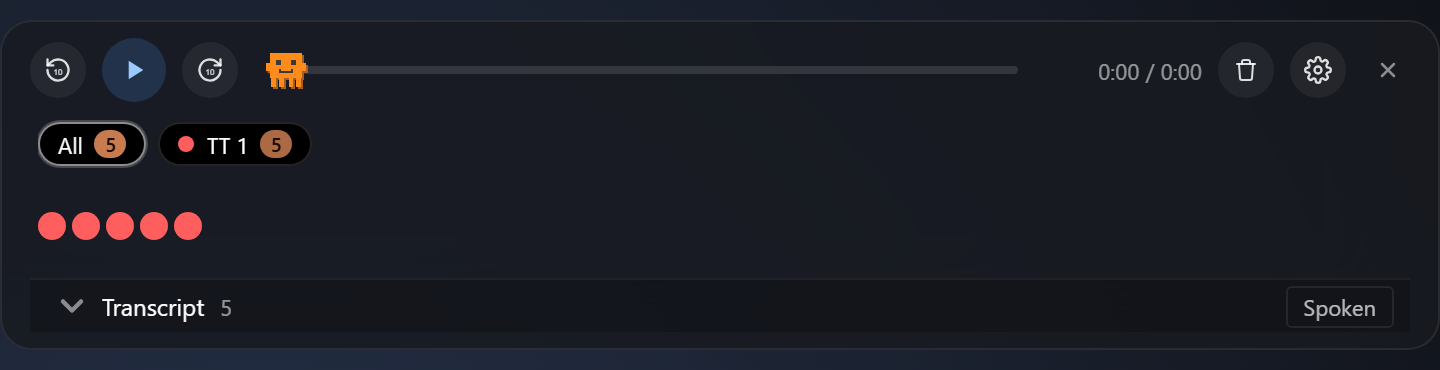
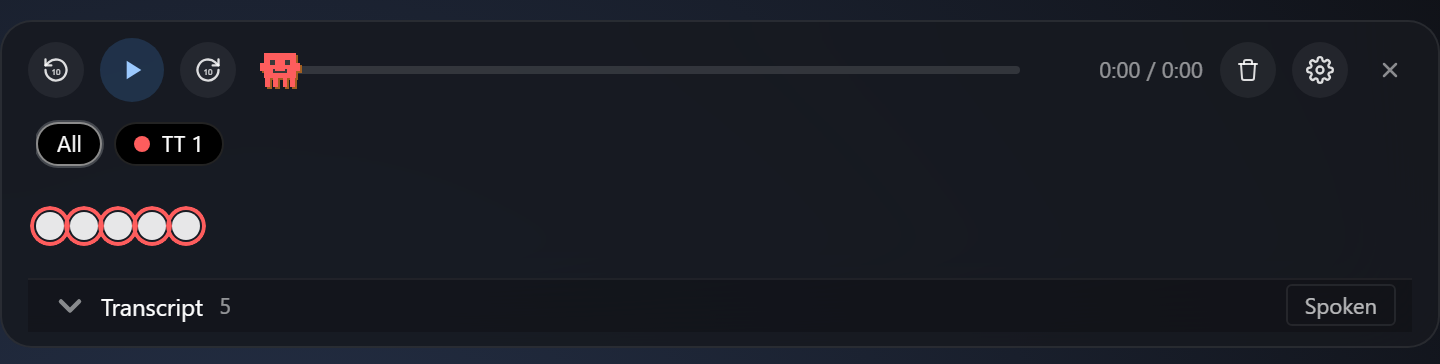
docs: add current toolbar state screenshots

diff --git a/docs/index.html b/docs/index.html
@@ -243,12 +243,14 @@ section { padding: 80px 24px; }
 .shot-pair {
   display: flex;
   gap: 12px;
+  flex-wrap: wrap;
   align-items: center;
   justify-content: center;
   min-height: 160px;
 }
 .shot-pair img {
-  width: min(46%, 320px);
+  width: min(30%, 220px);
+  min-width: 150px;
 }
 .shot-card h3 {
   margin: 14px 4px 6px;
@@ -588,12 +590,18 @@ footer a { color: var(--text-dim); margin: 0 12px; }
     </div>
     <div class="shot-grid">
       <article class="shot-card wide">
-        <img src="screenshots/toolbar-settings-panel.png" alt="Terminal Talk settings panel showing Playback, Sessions, Create, OpenAI, Shortcuts, and About tabs">
-        <h3>Tabbed settings instead of one long scrollbar</h3>
-        <p>Playback, Sessions, Create, OpenAI, Shortcuts, and About each get their own page. The top toolbar strip stays focused on active sessions and sessions with clips waiting.</p>
+        <img src="screenshots/toolbar-resting-with-tabs.png" alt="Terminal Talk toolbar resting with active session tabs, clip dots, and transcript header">
+        <h3>Resting toolbar with active conversations</h3>
+        <p>The top strip shows active sessions and sessions with clips waiting, while the dot row keeps each conversation grouped by palette identity.</p>
+      </article>
+      <article class="shot-card wide">
+        <img src="screenshots/toolbar-transcript-expanded.png" alt="Terminal Talk toolbar with transcript panel expanded, spoken rows, and copy buttons">
+        <h3>Transcript expanded</h3>
+        <p>Recent clips stay readable next to playback. Copy a spoken row, flip to Original when available, and keep the transcript filtered to the selected session tab.</p>
       </article>
       <article class="shot-card">
         <div class="shot-pair">
+          <img src="screenshots/toolbar-collapsed-resting.png" alt="Collapsed resting letterbox strip">
           <img src="screenshots/toolbar-collapsed-signal-horizontal.png" alt="Collapsed waveform letterbox using a horizontal split session palette">
           <img src="screenshots/toolbar-collapsed-signal-vertical.png" alt="Collapsed waveform letterbox using a vertical split session palette">
         </div>
@@ -609,6 +617,11 @@ footer a { color: var(--text-dim); margin: 0 12px; }
         <img src="screenshots/toolbar-create-session-tab.png" alt="Create tab with assistant picker, permissions, project folder, label, colour, save default, and create buttons">
         <h3>Create sessions from the toolbar</h3>
         <p>Start Codex, Claude Code, or Claude Desktop Code with the project folder, label, colour, and permissions mode already selected before the assistant begins talking.</p>
+      </article>
+      <article class="shot-card wide">
+        <img src="screenshots/toolbar-settings-panel.png" alt="Terminal Talk settings panel showing Playback, Sessions, Create, OpenAI, Shortcuts, and About tabs">
+        <h3>Tabbed settings instead of one long scrollbar</h3>
+        <p>Playback, Sessions, Create, OpenAI, Shortcuts, and About each get their own page, so the controls are separated by job instead of buried in one long panel.</p>
       </article>
     </div>
   </div>

diff --git a/docs/ui-kit/mock-ipc.js b/docs/ui-kit/mock-ipc.js
@@ -173,6 +173,24 @@
     }
   }
 
+  function sessionShortFromPath(audioPath) {
+    const fname = String(audioPath || '').split(/[\\/]/).pop() || '';
+    const clip = fname.match(/-clip-([a-f0-9]{8})-\d+\.(?:mp3|wav)$/i);
+    if (clip) return clip[1].toLowerCase();
+    const normal = fname.match(/-([a-f0-9]{8})\.(?:mp3|wav)$/i);
+    return normal ? normal[1].toLowerCase() : '';
+  }
+
+  function sidecarForClip(audioPath) {
+    const short = sessionShortFromPath(audioPath);
+    const entry = short && sessions[short] ? sessions[short] : null;
+    const label = (entry && entry.label) || (short ? `Session ${short}` : 'Highlight');
+    return {
+      spoken: `${label} finished a turn and Terminal Talk kept the clip in the transcript with the spoken wording ready to copy.`,
+      original: `### ${label}\n\nThis is the original assistant text before speech cleanup. It can include **markdown**, inline code, and links while the Spoken view stays clean for audio.`,
+    };
+  }
+
   // ═══════════════════════════════════════════════════════════════════════
   // Seeds — each returns { queueFiles, sessions, staleShorts?, panelOpen? }
   // ═══════════════════════════════════════════════════════════════════════
@@ -380,6 +398,7 @@
     getQueue:          () => Promise.resolve({ files: sortedFiles(), assignments: { ...sessions } }),
     getConfig:         () => Promise.resolve({ ...config }),
     getStaleSessions:  () => Promise.resolve(staleShorts.slice()),
+    readClipSidecar:   (audioPath) => Promise.resolve(sidecarForClip(audioPath)),
 
     // --- mutations ----------------------------------------------------
     updateConfig: (partial) => {

diff --git a/README.md b/README.md
@@ -35,6 +35,18 @@ Hands-free voice output for terminal coding agents on Windows. Free, MIT license
 | 🔐 **Encrypted API keys** — OpenAI premium via safeStorage (DPAPI / Keychain) | ⏱ **Claude end-of-reply verb** — scrapes the terminal footer and speaks _"Brewed for 8m 49s"_ |
 | 💬 **Per-session voice + heartbeat + speech-includes** — 45 Edge voices + 6 OpenAI, tri-state session controls | 📡 **Collapsed waveform strip** — 1-inch letterbox pulses with the speaking session's solid/split palette |
 
+### Current toolbar states
+
+These are fresh captures from the live Electron toolbar mirror, not hand-built mockups.
+
+| Resting toolbar with active conversations | Transcript panel expanded |
+|---|---|
+| <img src="docs/screenshots/toolbar-resting-with-tabs.png" alt="Terminal Talk toolbar resting with top session tabs, colour badges, clip dots, and transcript header" width="520"> | <img src="docs/screenshots/toolbar-transcript-expanded.png" alt="Terminal Talk toolbar with transcript panel expanded, spoken text rows, and copy buttons" width="520"> |
+
+| Collapsed at rest | Collapsed while a split-palette session is speaking |
+|---|---|
+| <img src="docs/screenshots/toolbar-collapsed-resting.png" alt="Terminal Talk collapsed resting letterbox strip" width="260"> | <img src="docs/screenshots/toolbar-collapsed-signal-horizontal.png" alt="Terminal Talk collapsed waveform strip pulsing with a split session palette" width="260"> |
+
 ---
 
 ## Install (Windows)
@@ -92,10 +104,10 @@ Re-running `install.ps1` is safe — it updates in place and preserves your `con
 
 Current screenshots are rendered from the same Electron DOM/CSS that ships in the app via the UI kit mirror, so they track the real toolbar rather than hand-built mockups.
 
-### 01 · Idle
+### 01 · Resting with active conversations
 
 <p align="center">
-  <img src="docs/screenshots/toolbar-idle.png" alt="Idle toolbar: empty two-row letterbox with controls on top and an empty dot strip below" width="900">
+  <img src="docs/screenshots/toolbar-resting-with-tabs.png" alt="Terminal Talk toolbar resting with top session tabs, colour badges, clip dots, and transcript header" width="900">
 </p>
 
 The baseline expanded toolbar. It is frameless, always-on-top, draggable, and uses the top tab strip only for active sessions or sessions that still have clips in the queue. Registry-only sessions stay out of this top strip and live in Settings › Sessions, so the day-to-day playback surface does not get cluttered.
@@ -106,7 +118,7 @@ The baseline expanded toolbar. It is frameless, always-on-top, draggable, and us
   <img src="docs/screenshots/toolbar-three-sessions.png" alt="Dot strip clusters by session: 3 red dots (Terminal A, first one playing), gap, 3 yellow dots (Terminal B), gap, 2 green dots (Terminal C)" width="900">
 </p>
 
-Three terminals queued in arrival order: **3 red** from Terminal A (first one playing, 2 queued behind), **3 yellow** from Terminal B, **2 green** from Terminal C. The 12 px gap between runs marks a change of speaker so the timeline reads as **A A A — B B B — C C** at a glance. Oldest left, newest right, never re-sorted. If Terminal C has the important message you'd wait through 5 clips first — that's the story shot 04's focus-star solves.
+Three terminals queued in arrival order: **3 red** from Terminal A (first one playing, 2 queued behind), **3 yellow** from Terminal B, **2 green** from Terminal C. The 12 px gap between runs marks a change of speaker so the timeline reads as **A A A — B B B — C C** at a glance. Oldest left, newest right, never re-sorted. If Terminal C has the important message you'd wait through 5 clips first — that's what the Sessions focus star solves.
 
 ### 03 · Mixed states in one queue
 
@@ -119,13 +131,22 @@ A real queue in flight. Reading left to right: Terminal A (red) sent 3 clips —
 ### 04 · Collapsed waveform signal
 
 <p align="center">
+  <img src="docs/screenshots/toolbar-collapsed-resting.png" alt="Collapsed Terminal Talk resting letterbox strip" width="260">
   <img src="docs/screenshots/toolbar-collapsed-signal-horizontal.png" alt="Collapsed Terminal Talk letterbox: short waveform strip pulsing with a horizontal split palette border" width="320">
   <img src="docs/screenshots/toolbar-collapsed-signal-vertical.png" alt="Collapsed Terminal Talk letterbox: short waveform strip pulsing with a vertical split palette border" width="320">
 </p>
 
-The collapsed state is a compact click-through waveform, roughly an inch wide. It does not reopen over your work when audio arrives. Instead the waveform and border pulse in the currently speaking session's palette. Split colours are preserved: left/right palettes render as horizontal border splits, and top/bottom palettes render as vertical border splits, so rare two-colour identities remain distinguishable at a glance.
+The collapsed state is a compact click-through letterbox, roughly an inch wide. At rest it stays quiet and unobtrusive. When audio plays, the waveform and border pulse in the currently speaking session's palette. Split colours are preserved: left/right palettes render as horizontal border splits, and top/bottom palettes render as vertical border splits, so rare two-colour identities remain distinguishable at a glance.
 
-### 05 · Tabbed Settings panel
+### 05 · Transcript panel expanded
+
+<p align="center">
+  <img src="docs/screenshots/toolbar-transcript-expanded.png" alt="Terminal Talk toolbar with transcript panel expanded, spoken text rows, and copy buttons" width="900">
+</p>
+
+The transcript panel opens below the dot strip. It keeps recent spoken clips visible, lets you copy a row without searching the terminal, and follows the same session tab filter as the dot strip.
+
+### 06 · Tabbed Settings panel
 
 <p align="center">
   <img src="docs/screenshots/toolbar-settings-panel.png" alt="Terminal Talk settings panel with tabs for Playback, Sessions, Create, OpenAI, Shortcuts, and About" width="900">
@@ -135,7 +156,7 @@ The gear opens a tabbed settings panel instead of one long scrollbar. **Playback
 
 **Playback precedence** — (1) "hey jarvis" / `Ctrl+Shift+S` highlight-to-speak always wins · (2) unplayed clips from the focused ★ session jump the queue · (3) oldest unplayed clip from any unmuted session. That's how you make Terminal C's important reply play before Terminal A's 3-deep ramble.
 
-### 06 · Sessions and per-session overrides
+### 07 · Sessions and per-session overrides
 
 <p align="center">
   <img src="docs/screenshots/toolbar-sessions-panel-expanded.png" alt="Settings Sessions tab with one session expanded to show voice, heartbeat, and speech-include overrides" width="900">
@@ -143,7 +164,7 @@ The gear opens a tabbed settings panel instead of one long scrollbar. **Playback
 
 Each row is backed by `~/.terminal-talk/session-colours.json`. The 24-arrangement palette includes 8 solid colours, 8 top/bottom splits, and 8 left/right splits. The dropdown labels show when a colour is already used, and the expanded row gives that session its own voice, heartbeat override, and tri-state speech-includes.
 
-### 07 · Create a session
+### 08 · Create a session
 
 <p align="center">
   <img src="docs/screenshots/toolbar-create-session-tab.png" alt="Settings Create tab with assistant picker, permissions, project folder, label, colour, save default, and create controls" width="900">
@@ -151,7 +172,7 @@ Each row is backed by `~/.terminal-talk/session-colours.json`. The 24-arrangemen
 
 The Create tab starts a new assistant session from Terminal Talk. It can launch Codex, Claude Code, or Claude Desktop Code, seed the label/colour before the assistant speaks, and mark used colours in the picker so you do not accidentally collide with an active session. For Codex CLI, the launcher keeps the provisional terminal tab and the real rollout session bound together once Codex emits its true session id.
 
-### 08 · Snapped to the top edge
+### 09 · Snapped to the top edge
 
 <p align="center">
   <img src="docs/screenshots/toolbar-snapped-top.png" alt="Toolbar flush against the top edge of a screen, flat-topped, with dots showing two heard reds plus three blues (one playing)" width="900">

diff --git a/docs/ui-kit/README.md b/docs/ui-kit/README.md
@@ -45,6 +45,8 @@ product change automatically updates the kit on next sync.
 | `toolbar-settings-panel.png` | `settings-panel` |
 | `toolbar-snapped-top.png` | `snapped-top` |
 | `toolbar-tabs-with-sessions.png` | `tabs-active` |
+| `toolbar-resting-with-tabs.png` | `tabs-active` |
+| `toolbar-transcript-expanded.png` | `tabs-active` + transcript expanded |
 | `toolbar-openai-section-saved.png` | `settings-panel-openai-saved&settingsScrollTarget=openai` |
 | `toolbar-openai-section-unset.png` | `settings-panel-openai-unset` |
 | `toolbar-sessions-panel-expanded.png` | `settings-panel-sessions-expanded` |
@@ -52,6 +54,7 @@ product change automatically updates the kit on next sync.
 | `toolbar-create-session-tab.png` | `settings-panel&settingsScrollTarget=create-session` |
 | `toolbar-shortcuts-tab.png` | `settings-panel&settingsScrollTarget=shortcuts` |
 | `toolbar-about-tab.png` | `settings-panel&settingsScrollTarget=about` |
+| `toolbar-collapsed-resting.png` | synthetic collapsed resting strip |
 | `toolbar-collapsed-signal-horizontal.png` | synthetic collapsed state using product `.collapsed-signal` CSS, palette 20 |
 | `toolbar-collapsed-signal-vertical.png` | synthetic collapsed state using product `.collapsed-signal` CSS, palette 11 |
 
